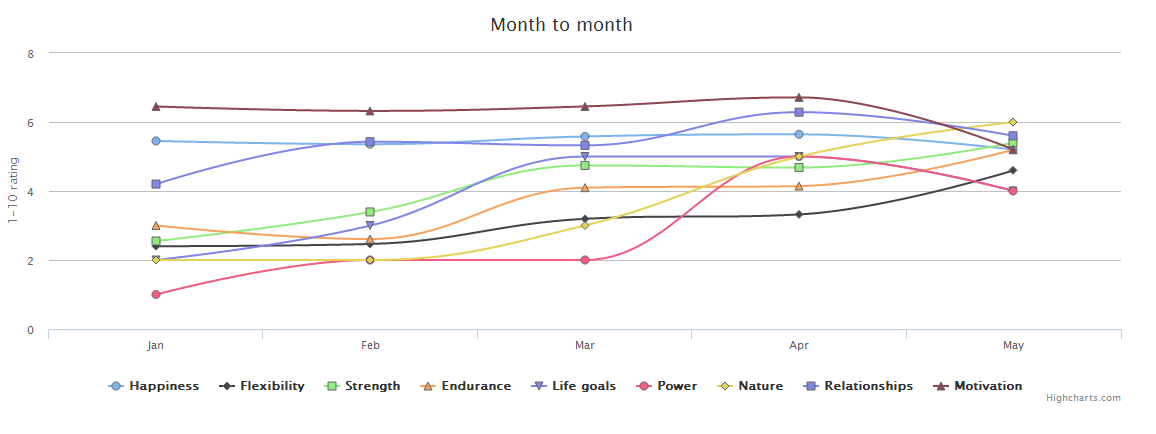
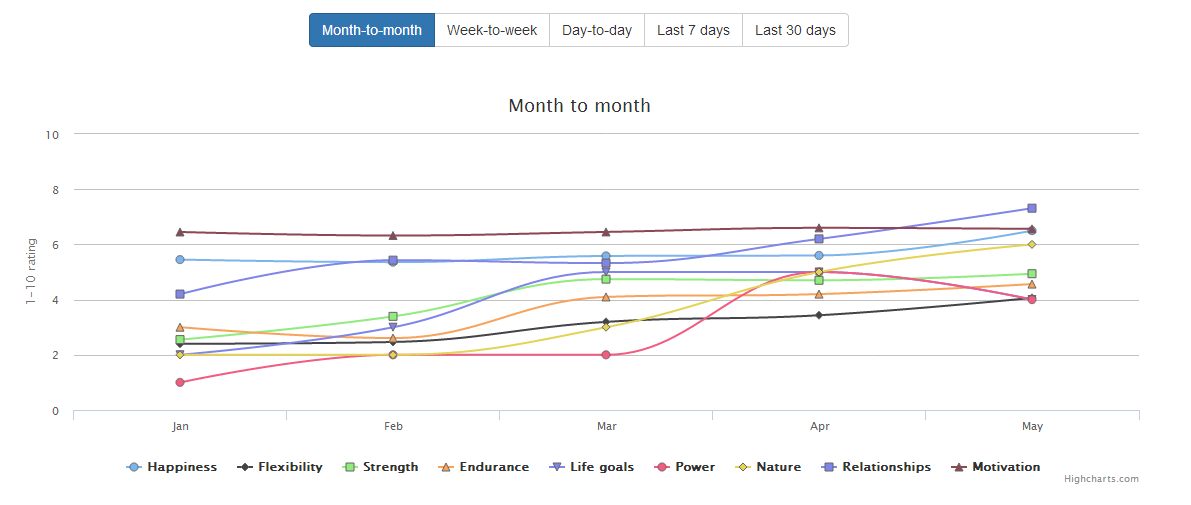
adds better pic to readme

diff --git a/README.md b/README.md
@@ -5,8 +5,6 @@ chin up
 
 ![my setup](docs/img/screenshots/input.png)
 
-![my setup](docs/img/screenshots/stats.png)
-
 
 ### Why? ###
 To become the best I can be: I need motivation, I need to get my chin up.
@@ -66,6 +64,19 @@ python manage.py runserver
 ```
 
 Then go to `http://localhost:8000/admin/` and add daily/monthly tracking items.
+
+
+Stats
+=====
+
+![my setup](docs/img/screenshots/stats.png)
+
+ * **Month to month** - Average for the entire month
+ * **Week to week** - Average for the entire week
+ * **Day of the week** - Average for that day of the week for the last year
+ * **7 day** - Last 7 day simple
+ * **30 day** - Last 30 day simple
+
 
 
 
